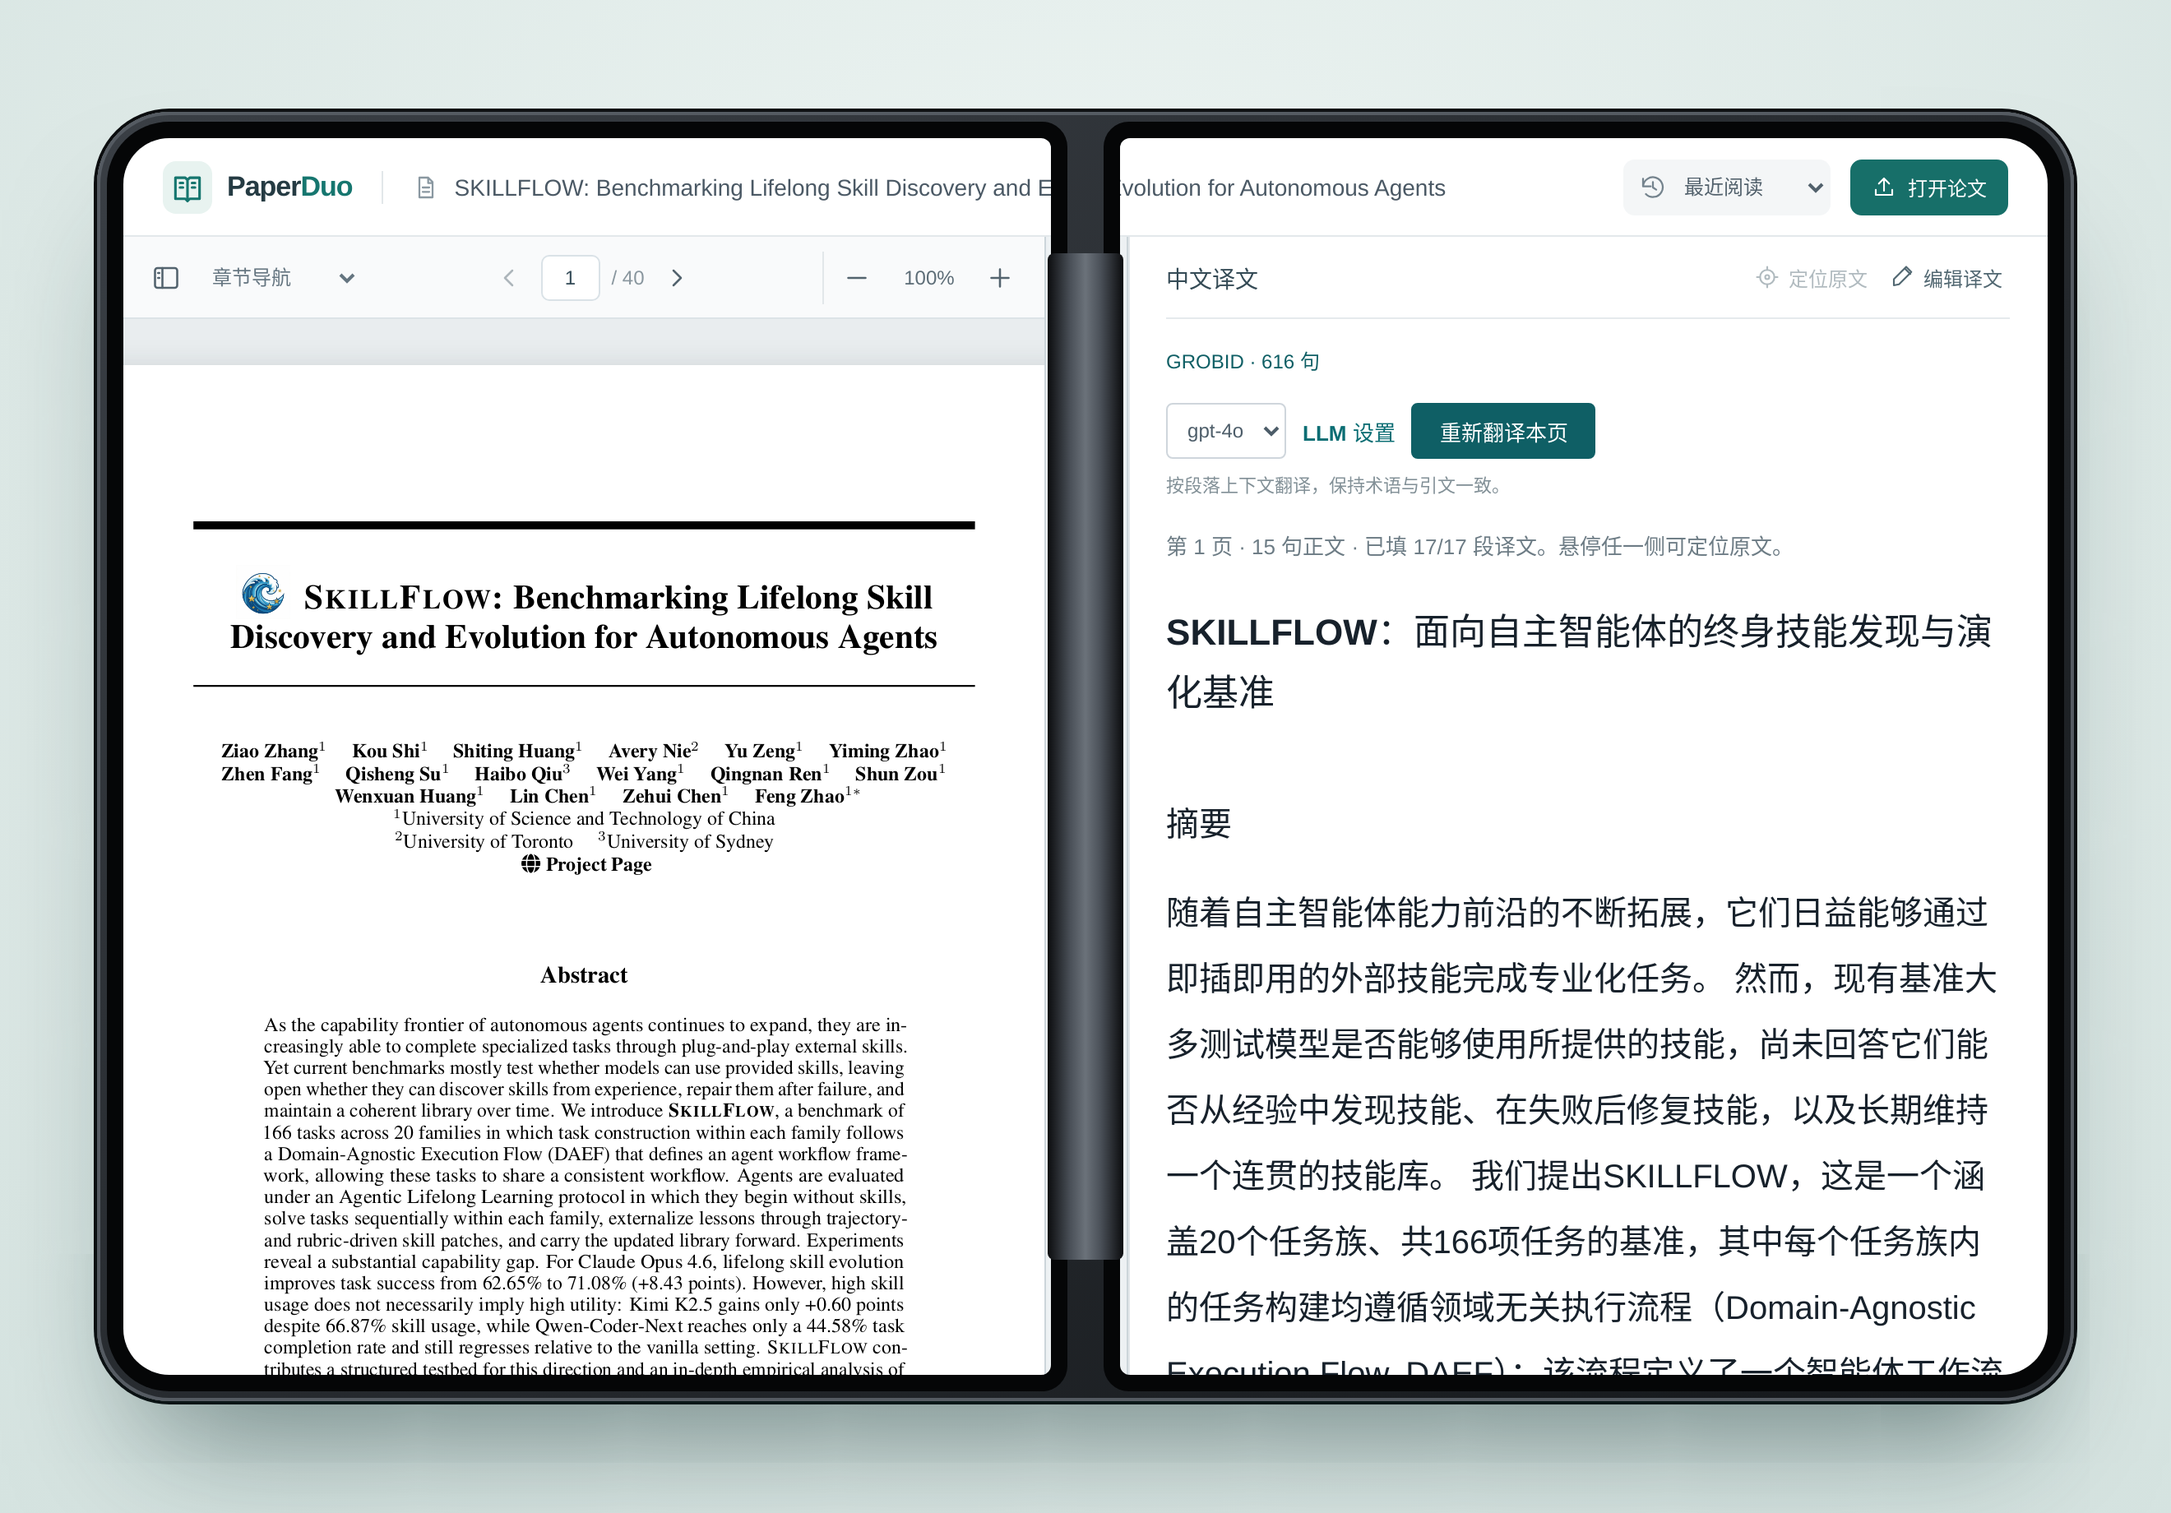
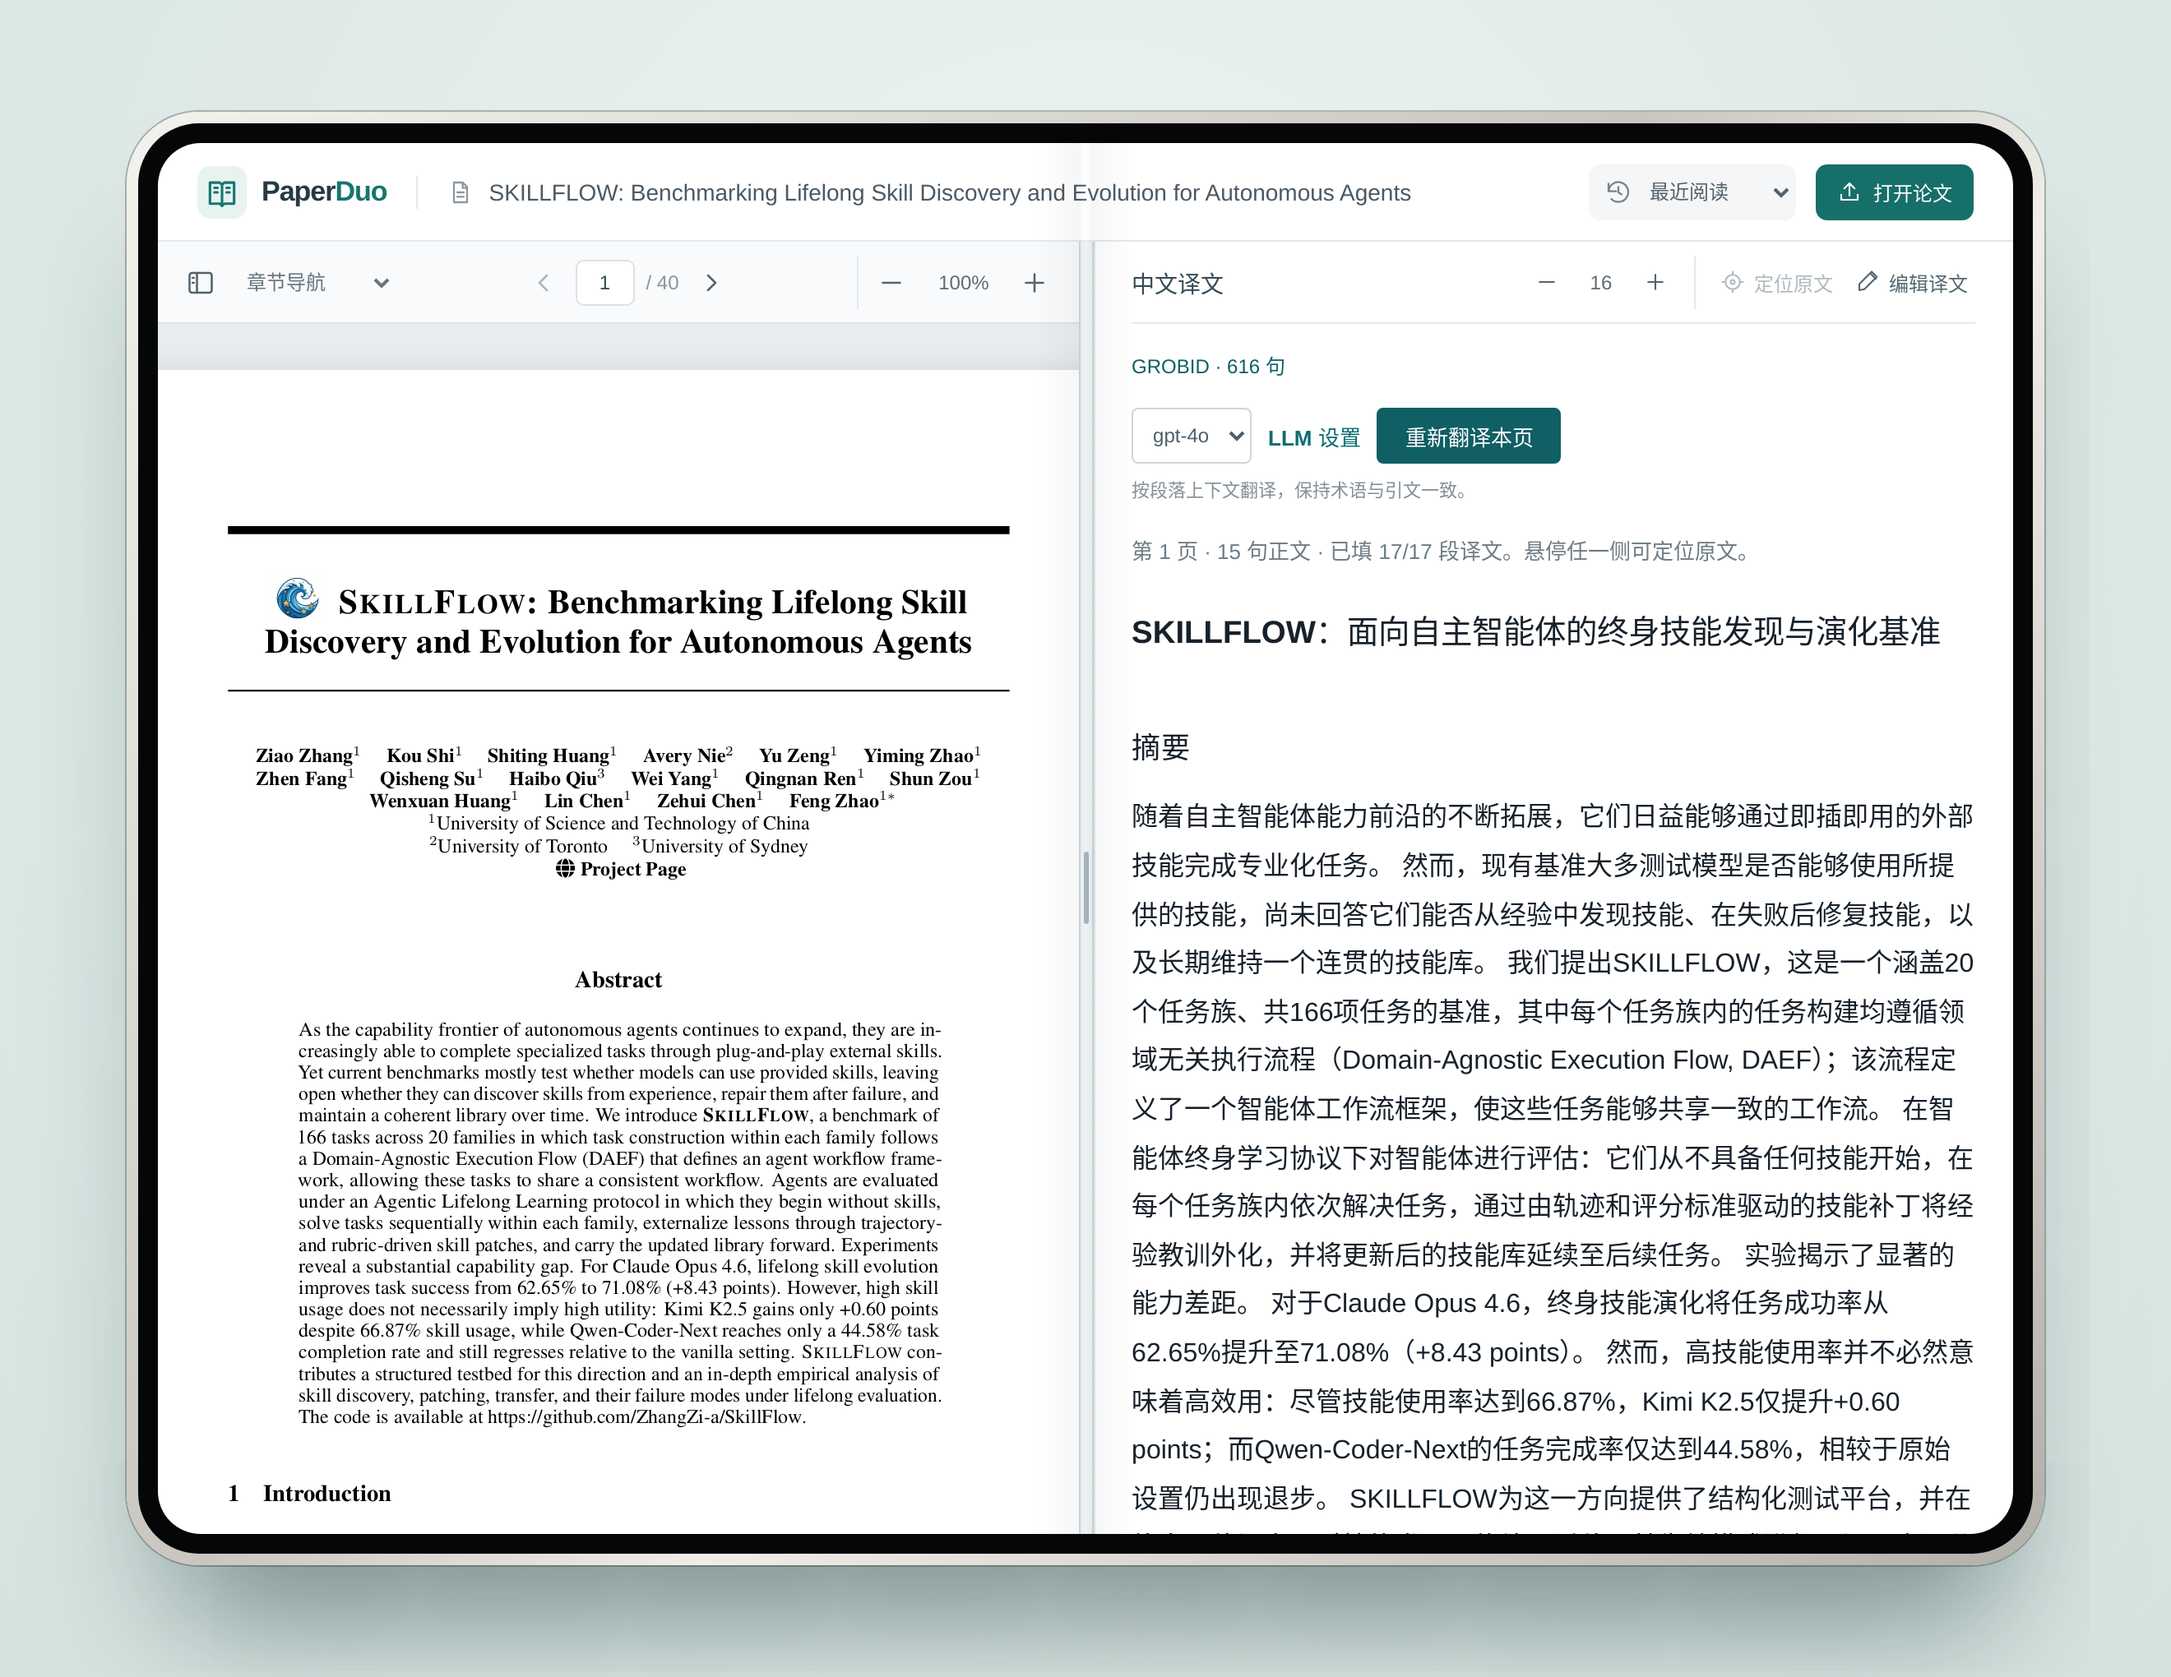
update README.md to include preview image and improve formatting

Changed region(s): [[0.0311, 0.062, 0.9629, 0.9603], [0.2485, 0.1549, 0.3106, 0.1859]]

diff --git a/web/css/styles.css b/web/css/styles.css
@@ -167,23 +167,26 @@ button:focus-visible, select:focus-visible, .page-field input:focus-visible { ou
 .translation-head h2, .dialog-heading h2 { margin: 0; }
 .dialog-heading h2 { font-family: Georgia, "Noto Serif SC", serif; font-size: 22px; font-weight: 600; }
 .translation-status { margin: 17px 0 24px; color: #6d7c85; font-size: 13px; line-height: 1.6; }
-.translation-list { color: #17212b; font-size: 20px; line-height: 2; overflow-wrap: anywhere; }
+.translation-pane { --translation-size: 16px; }
+.translation-list { color: #17212b; font-size: var(--translation-size); line-height: 1.85; overflow-wrap: anywhere; }
 .translation-paragraph { margin: 0 0 1.9em; }
-.paragraph-figure-content { color: #67757e; font-size: 14px; line-height: 1.8; }
+.paragraph-figure-content { color: #67757e; font-size: .85em; line-height: 1.8; }
 .paragraph-figure-content summary { cursor: pointer; }
 .translation-paragraph[data-pending]::before { content: '含待译原文'; display: block; color: #89969d; font-size: 11px; line-height: 1.5; margin-bottom: 6px; }
 .paragraph-figure-content[data-pending]::before { display: none; }
-.reading-section { font-size: 20px; font-weight: 600; margin: 1.5em 0 .7em; }
+.reading-section { font-size: 1.1em; font-weight: 600; margin: 1.5em 0 .7em; }
 .translation-card { padding: 2px 0; cursor: crosshair; border-radius: 3px; box-decoration-break: clone; -webkit-box-decoration-break: clone; transition: background .12s; }
 .translation-card:focus-visible { outline: 1px solid #a5aeb3; outline-offset: 2px; }
 .translation-card.is-active { background: #e6e6e6; }
 .translation-card.is-untranslated { color: #67757e; }
-.paragraph-title { font-size: 22px; line-height: 1.65; }
-.translation-card .original { display: block; margin-top: 5px; color: #84929a; font-size: 11px; line-height: 1.55; }
+.paragraph-title { font-size: 1.2em; line-height: 1.65; }
+.translation-card .original { display: block; margin-top: 5px; color: #84929a; font-size: .7em; line-height: 1.55; }
 .translation-card > span:not(.segment-kind):not(.original) { white-space: pre-line; }
 .segment-kind { display: none; }
 .kind-heading, .kind-title { font-weight: 700; }
-.kind-reference { font-size: 13px; }
+.kind-reference { font-size: .85em; }
+.text-size-controls { display: inline-flex; align-items: center; margin-right: 6px; padding-right: 8px; border-right: 1px solid #e2e7ea; }
+.text-size-controls .zoom-value { min-width: 34px; }
 .unlocated { color: #6d7c85; font-size: 13px; line-height: 1.8; border-top: 1px solid #dbe2e5; padding-top: 16px; }
 
 .translation-dialog { width: min(760px, calc(100vw - 32px)); border: 1px solid #bac7cd; border-radius: 6px; padding: 24px; color: #17212b; box-shadow: 0 16px 60px rgb(15 30 38 / 28%); }

diff --git a/web/index.html b/web/index.html
@@ -79,6 +79,11 @@
               <h2>中文译文</h2><span class="reading-badge">对照阅读</span>
             </div>
             <div class="reading-actions">
+              <div class="text-size-controls" role="group" aria-label="译文字号">
+                <button id="text-smaller" class="icon-button" title="减小译文字号" aria-label="减小译文字号"><svg class="ui-icon" viewBox="0 0 24 24" aria-hidden="true"><path d="M5 12h14"/></svg></button>
+                <button id="text-size-value" class="zoom-value" title="恢复默认字号" aria-label="恢复默认字号">16</button>
+                <button id="text-larger" class="icon-button" title="增大译文字号" aria-label="增大译文字号"><svg class="ui-icon" viewBox="0 0 24 24" aria-hidden="true"><path d="M5 12h14M12 5v14"/></svg></button>
+              </div>
               <button id="locate-active" class="text-button" disabled><svg class="ui-icon" viewBox="0 0 24 24" aria-hidden="true"><circle cx="12" cy="12" r="7"/><circle cx="12" cy="12" r="2"/><path d="M12 2v3M12 19v3M2 12h3M19 12h3"/></svg><span>定位原文</span></button>
               <button id="edit-translations" class="text-button" disabled><svg class="ui-icon" viewBox="0 0 24 24" aria-hidden="true"><path d="m15 4 5 5M4 20l5-1L21 7l-5-5L4 14z"/></svg><span>编辑译文</span></button>
             </div>

diff --git a/web/js/app.js b/web/js/app.js
@@ -1,6 +1,7 @@
 import * as pdfjsLib from '../vendor/pdf.min.mjs';
 import { rectangleForViewport, segmentsOnPage } from './alignment.mjs';
 import { setupReaderLayout } from './reader-layout.mjs';
+import { setupTextSize } from './text-size.mjs';
 
 pdfjsLib.GlobalWorkerOptions.workerSrc = new URL('../vendor/pdf.worker.min.mjs', import.meta.url).href;
 const state = {
@@ -24,6 +25,11 @@ const el = {
   translate: $('#translate-page'), stopTranslation: $('#stop-translation'),
   modelDescription: $('#model-description'), model: $('#translation-model'),
 };
+
+const textSize = setupTextSize({ target: $('.translation-pane'), out: $('#text-smaller'), grow: $('#text-larger'), value: $('#text-size-value') });
+$('#text-smaller').addEventListener('click', textSize.shrink);
+$('#text-larger').addEventListener('click', textSize.grow);
+$('#text-size-value').addEventListener('click', textSize.reset);
 
 const navigation = setupReaderLayout({ onPage: (page) => changePage(page - state.page), onSection: navigateSection });
 

diff --git a/README.md b/README.md
@@ -25,7 +25,7 @@ make up                  # 等同于 docker compose -p paperduo up -d --build
 
 1. 首次使用先点击「LLM 设置」，填写模型服务地址、API Key 和模型。
 2. 点击「打开论文」选择不超过 30 MB、带文本层的 PDF；已解析的论文可从「最近阅读」重新打开。
-3. 悬停原文或译文可定位另一侧；拖动中间分界线调整宽度（双击恢复）；在 PDF 区域用 `Ctrl/⌘ + 滚轮` 或 `Ctrl/⌘ + 加减键` 缩放，`Ctrl/⌘ + 0` 复位。
+3. 悬停原文或译文可定位另一侧；译文区右上角的 − / + 调整译文字号（默认 16，点数字恢复），设置会被记住；拖动中间分界线调整宽度（双击恢复）；在 PDF 区域用 `Ctrl/⌘ + 滚轮` 或 `Ctrl/⌘ + 加减键` 缩放，`Ctrl/⌘ + 0` 复位。
 4. 「翻译本页」生成译文；已有译文时变为「重新翻译本页」，会覆盖包括手动编辑在内的已有内容。
 5. 「编辑译文」修改当前页，修改会被保存。
 
